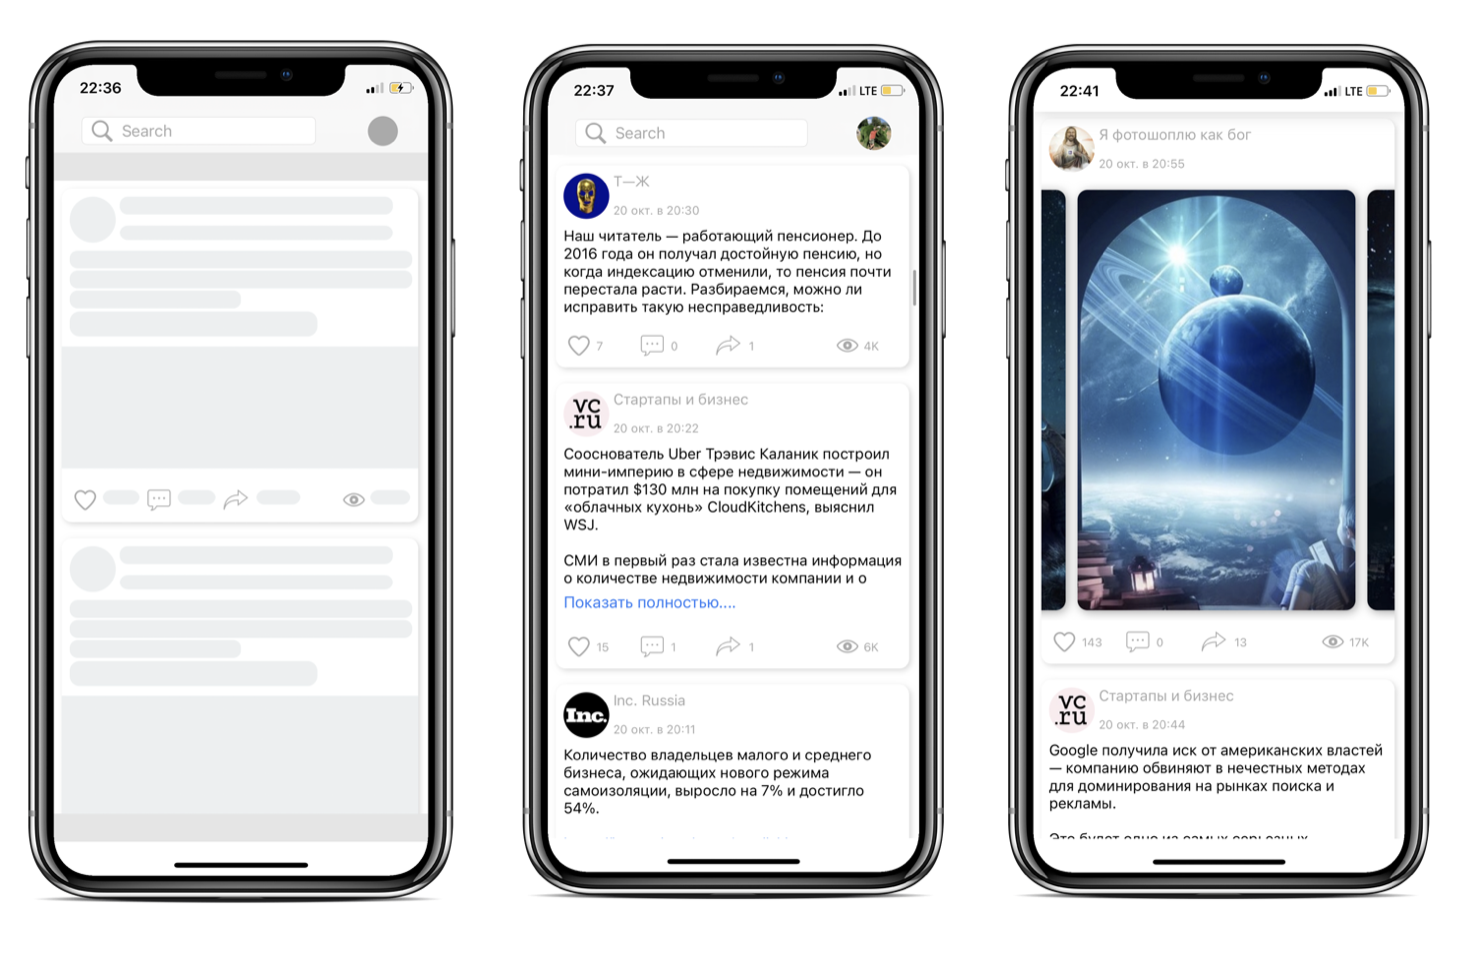
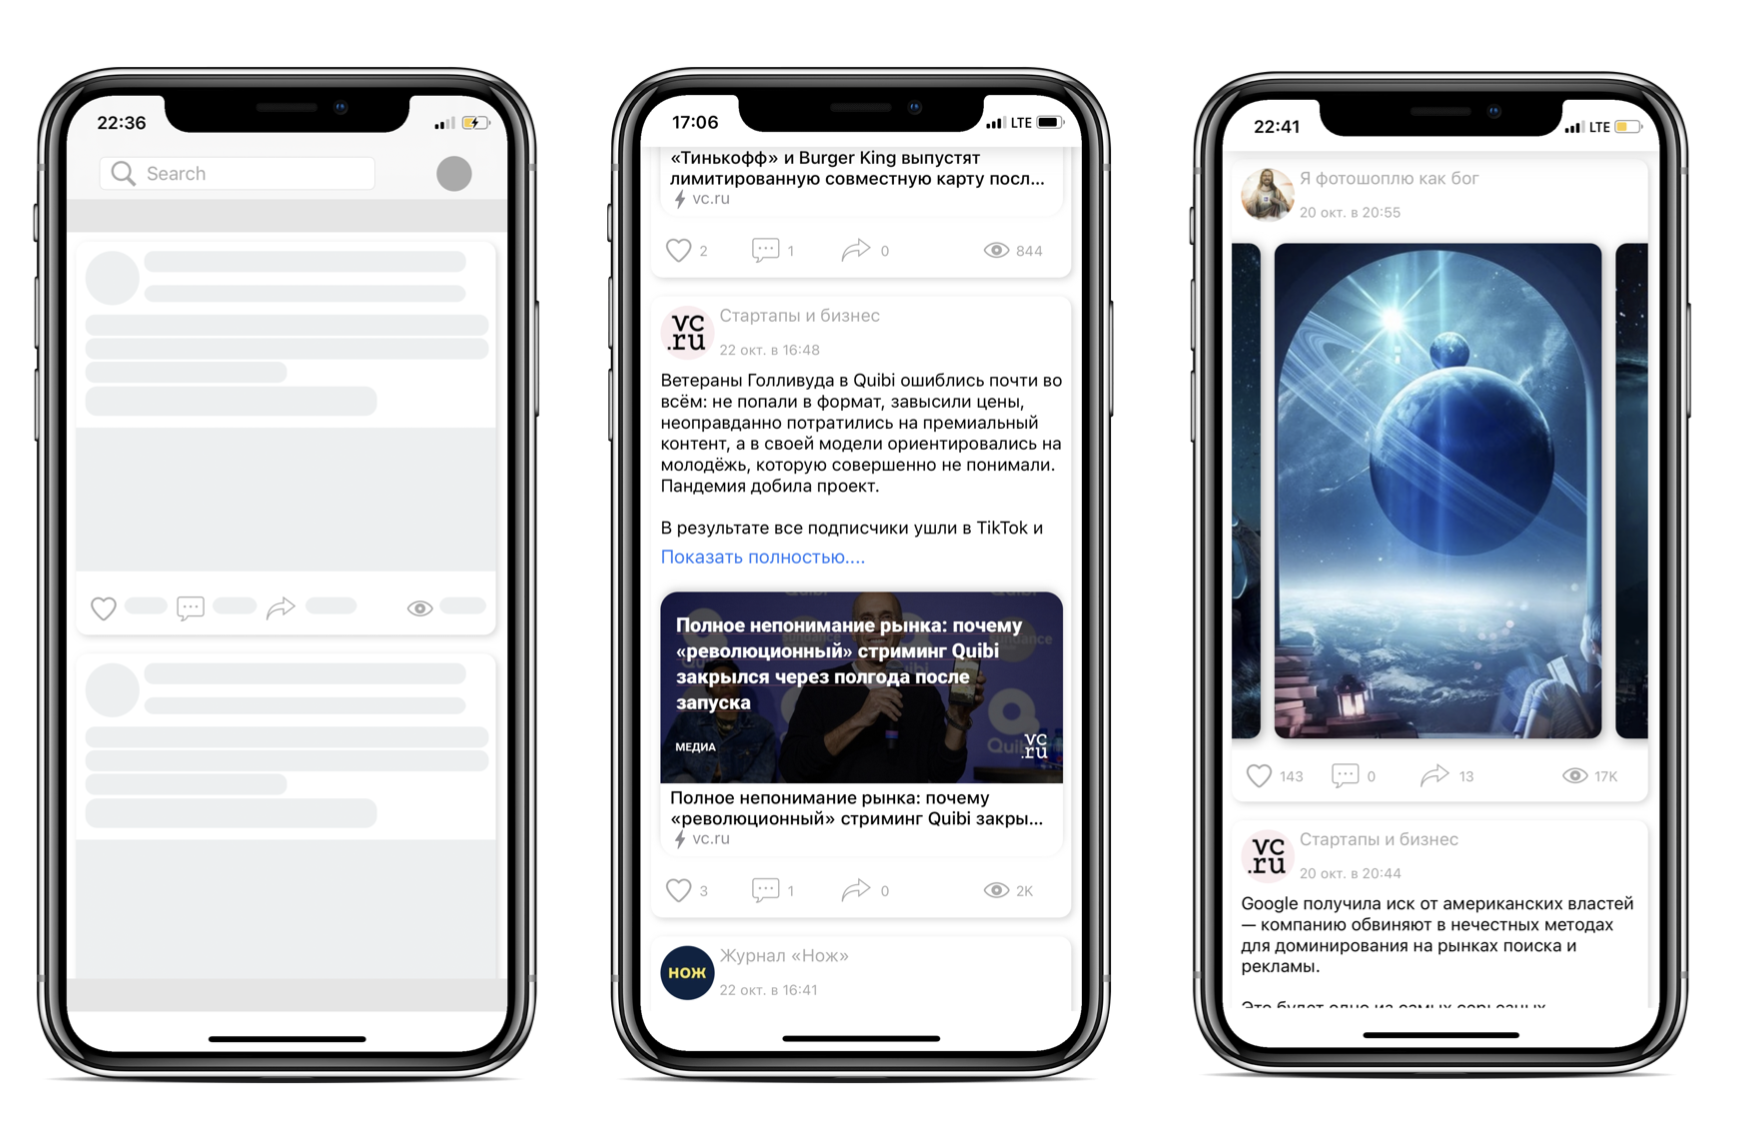
Improve link attachment UI

diff --git a/VKNews/Helpers/Constants.swift b/VKNews/Helpers/Constants.swift
@@ -10,7 +10,7 @@ import Foundation
 import UIKit
 
 struct Constans {
-    static let cardInsets = UIEdgeInsets(top: 8, left: 8, bottom: 8, right: 8)
+    static let cardInsets = UIEdgeInsets(top: 9, left: 8, bottom: 8, right: 9)
     static let topViewHeight : CGFloat = 46
     static let postLabelInsets = UIEdgeInsets(top: 8 + topViewHeight + 8, left: 8, bottom: 8, right: 8)
     static let postLabelFont = UIFont.systemFont(ofSize: 15)
